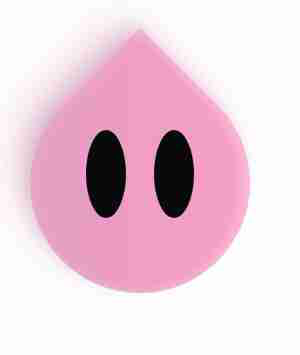
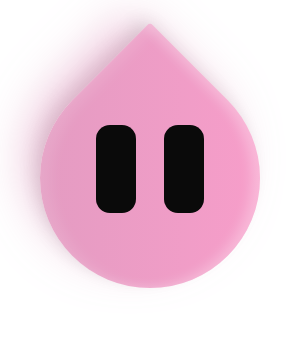
Give Drew rounded-rectangle eyes instead of ovals
Changed .eye's border-radius from 50% (oval) to 14px (rounded rect) in
both drew.css and the CSS-rebuild HTML, then regenerated the locked
hero PNG exports (public + assets copies) from that recipe via a
Playwright screenshot so the live concierge chat avatar matches.

Claude-Session: https://claude.ai/code/session_01GQPJjdmbz953eXeMxGHxbk

diff --git a/assets/drew/drew-css.html b/assets/drew/drew-css.html
@@ -51,12 +51,12 @@
     transform: rotate(-135deg);
     pointer-events: none;
   }
-  /* Simple black ovals only — no sclera, no pupil, no glint */
+  /* Simple black rounded rectangles — no sclera, no pupil, no glint */
   .eye {
     width: 40px;
     height: 88px;
     background: #0a0a0a;
-    border-radius: 50%;
+    border-radius: 14px;
   }
 </style>
 </head>

diff --git a/public/drew/drew.css b/public/drew/drew.css
@@ -44,10 +44,10 @@
     transform: rotate(-135deg);
     pointer-events: none;
   }
-  /* Simple black ovals only — no sclera, no pupil, no glint */
+  /* Simple black rounded rectangles — no sclera, no pupil, no glint */
   .eye {
     width: 40px;
     height: 88px;
     background: #0a0a0a;
-    border-radius: 50%;
+    border-radius: 14px;
   }

diff --git a/assets/drew/README.md b/assets/drew/README.md
@@ -1,6 +1,6 @@
 # Drew — ShinePoint mascot
 
-Minimal Dew: brand-pink eyes-only droplet (tall solid black ovals, no sclera/pupil/glint). Tip-up orientation.
+Minimal Dew: brand-pink eyes-only droplet (rounded-rectangle solid black eyes, no sclera/pupil/glint). Tip-up orientation.
 
 ## Web-served (`public/drew/`)
 - `drew-hero.png` — locked hero / concierge avatar (use this face)
